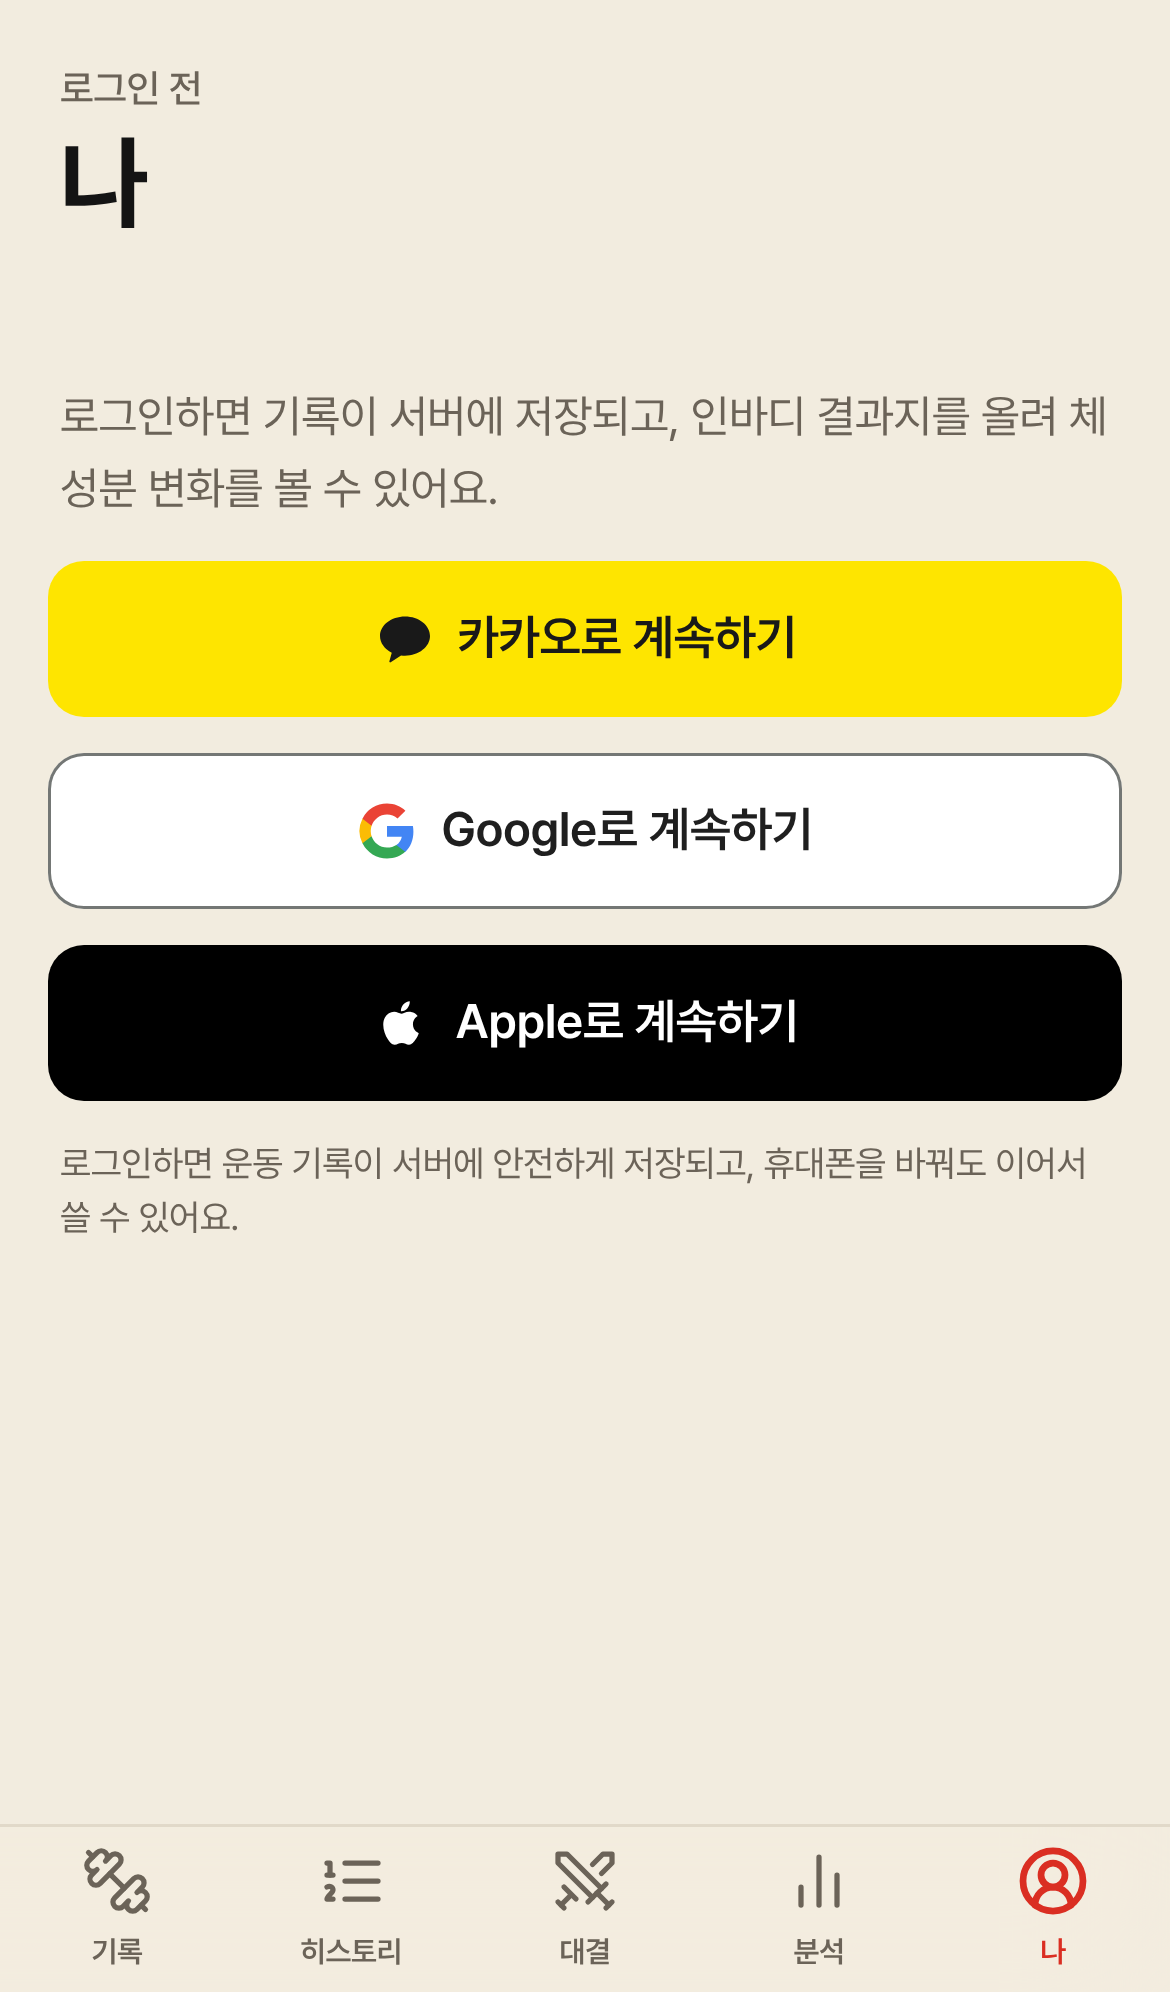
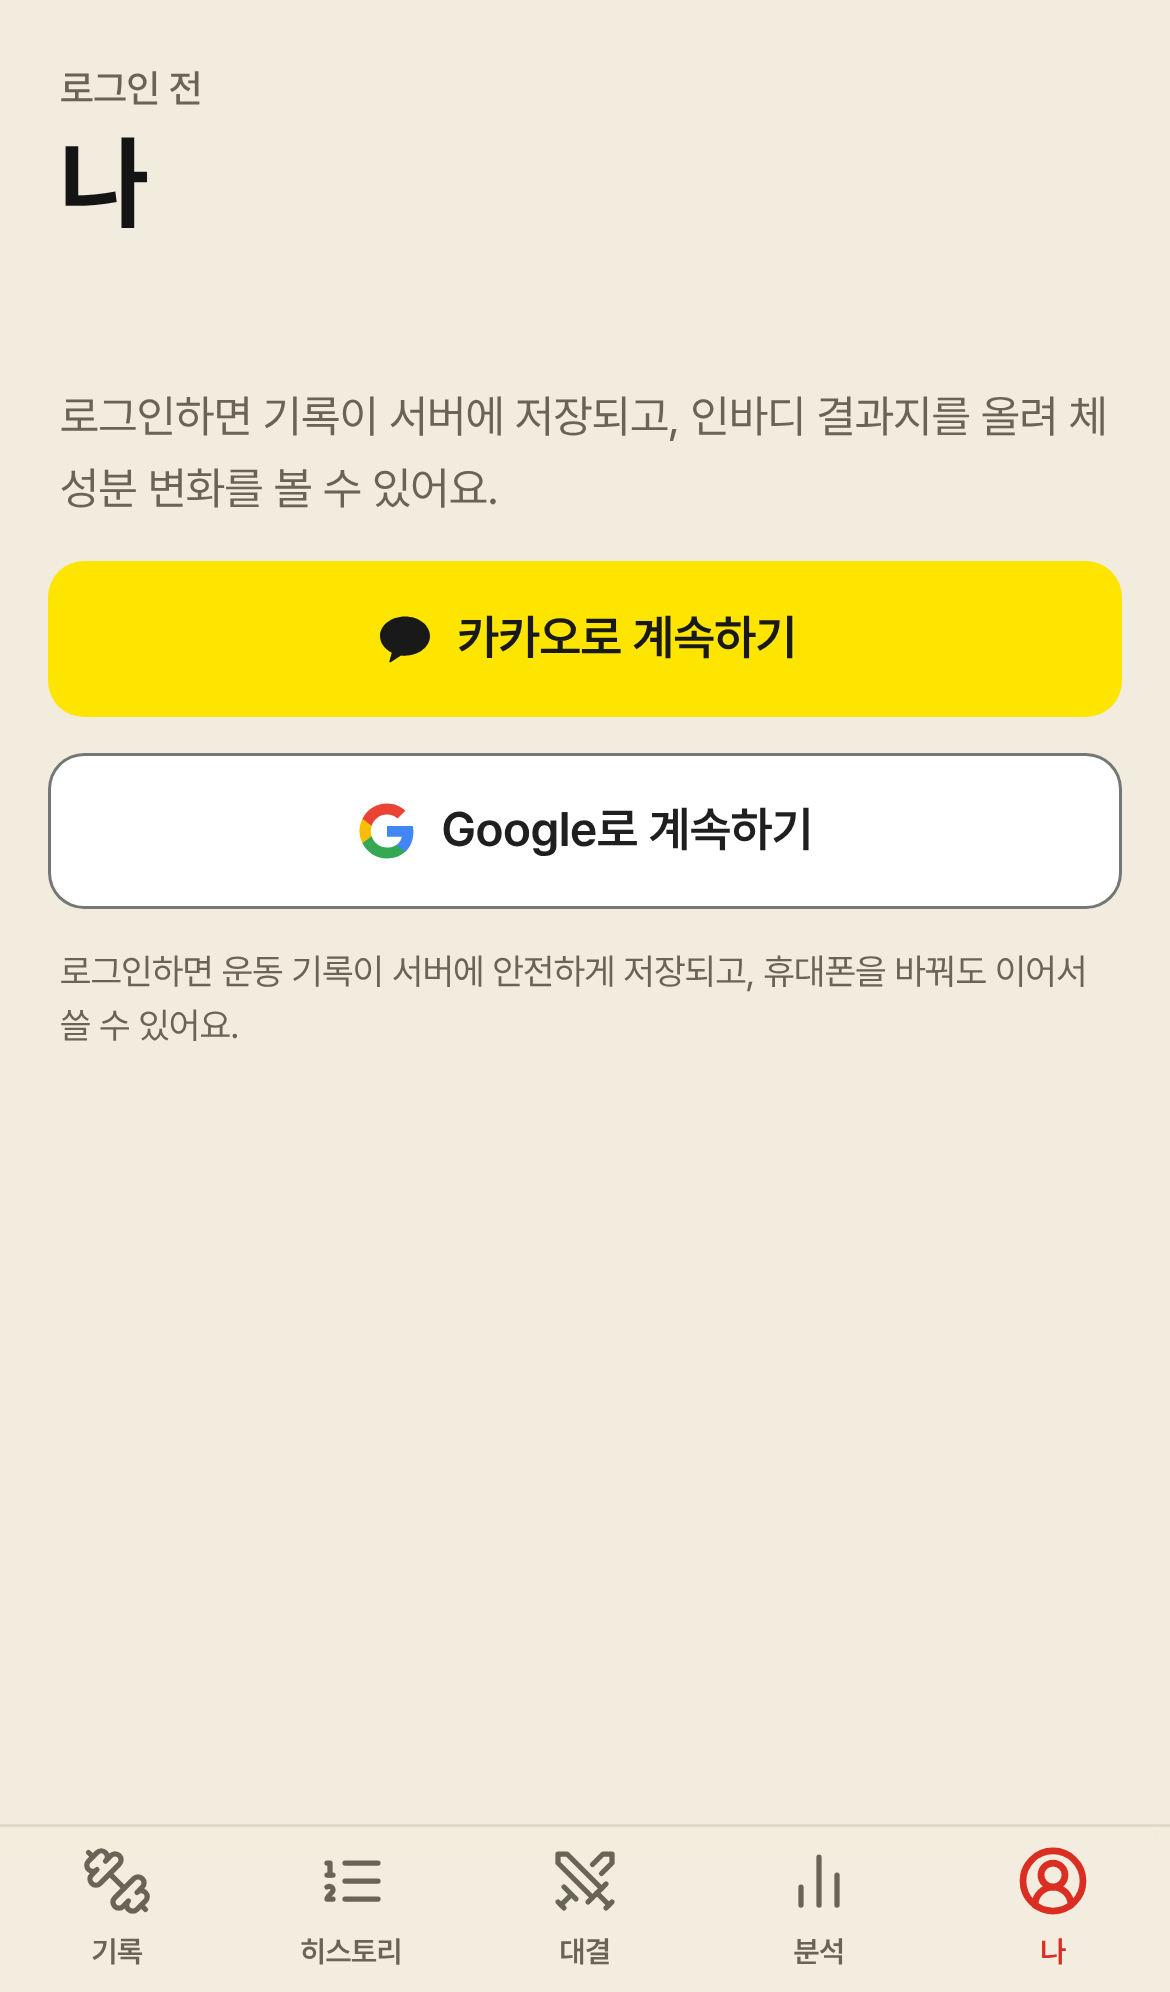
로그인을 카카오·구글로 한정 (애플 제외)
Claude-Session: https://claude.ai/code/session_01Qo6dAT2y3vhN6wj4omQPxB

Changed region(s): [[0.0308, 0.4669, 0.9846, 0.6225]]

diff --git a/src/components/LoginPanel.tsx b/src/components/LoginPanel.tsx
@@ -2,7 +2,7 @@ import { useState } from 'react';
 import { useAuth, type Provider } from '../lib/auth';
 import { errText } from '../lib/supabase';
 
-/** 각 회사 로고 가이드에 맞춘 버튼 색 (카카오 노랑, 애플 검정, 구글 흰색) */
+/** 각 회사 로고 가이드에 맞춘 버튼 색 (카카오 노랑, 구글 흰색) */
 const BUTTONS: { id: Provider; label: string; cls: string; logo: JSX.Element }[] = [
   {
     id: 'kakao',
@@ -23,14 +23,6 @@ const BUTTONS: { id: Provider; label: string; cls: string; logo: JSX.Element }[]
         <path fill="#FBBC05" d="M5.84 14.1a6.6 6.6 0 0 1 0-4.2V7.06H2.18a11 11 0 0 0 0 9.88l3.66-2.84z" />
         <path fill="#EA4335" d="M12 5.38c1.62 0 3.06.56 4.21 1.64l3.15-3.15C17.45 2.09 14.97 1 12 1A11 11 0 0 0 2.18 7.06l3.66 2.84C6.71 7.31 9.14 5.38 12 5.38z" />
       </svg>
-    ),
-  },
-  {
-    id: 'apple',
-    label: 'Apple로 계속하기',
-    cls: 'bg-black text-white dark:bg-white dark:text-black',
-    logo: (
-      <svg aria-hidden viewBox="0 0 24 24" className="w-5 h-5"><path fill="currentColor" d="M16.37 12.53c-.02-2.2 1.8-3.26 1.88-3.31-1.03-1.5-2.62-1.7-3.19-1.73-1.36-.14-2.65.8-3.34.8-.69 0-1.75-.78-2.88-.76-1.48.02-2.85.86-3.61 2.19-1.54 2.67-.39 6.62 1.11 8.79.73 1.06 1.6 2.25 2.75 2.2 1.1-.04 1.52-.71 2.85-.71 1.33 0 1.71.71 2.88.69 1.19-.02 1.94-1.08 2.67-2.15.84-1.23 1.19-2.42 1.21-2.48-.03-.01-2.32-.89-2.33-3.53zM14.18 6.06c.61-.74 1.02-1.76.91-2.78-.88.04-1.94.59-2.57 1.32-.56.65-1.06 1.69-.93 2.69.98.08 1.98-.5 2.59-1.23z" /></svg>
     ),
   },
 ];

diff --git a/src/components/MeTab.tsx b/src/components/MeTab.tsx
@@ -26,7 +26,7 @@ export default function MeTab({ toast, cloud, onImported }: { toast: (m: string)
         <div className="row justify-between py-3">
           <div className="min-w-0">
             <div className="text-[22px] font-bold truncate">{handle}</div>
-            <div className="text-[13px] text-sub">{{ kakao: '카카오', google: 'Google', apple: 'Apple' }[provider ?? ''] ?? ''} 계정으로 로그인됨</div>
+            <div className="text-[13px] text-sub">{{ kakao: '카카오', google: 'Google' }[provider ?? ''] ?? ''} 계정으로 로그인됨</div>
           </div>
           <button onClick={() => shareHandle(handle, toast)} aria-label="아이디 공유" className="tap w-11 h-11 -mr-2 grid place-items-center text-accent">
             <Share aria-hidden className="w-5 h-5" strokeWidth={1.75} />

diff --git a/src/lib/auth.tsx b/src/lib/auth.tsx
@@ -2,7 +2,7 @@ import { createContext, useCallback, useContext, useEffect, useState, type React
 import type { Session } from '@supabase/supabase-js';
 import { supabase } from './supabase';
 
-export type Provider = 'kakao' | 'google' | 'apple';
+export type Provider = 'kakao' | 'google';
 
 interface AuthState {
   enabled: boolean;          // Supabase 설정 여부

diff --git a/SETUP.md b/SETUP.md
@@ -1,7 +1,7 @@
 # 서버 연결 가이드 (로그인 · 대결 · 인바디)
 
 이 설정을 하기 전에도 앱은 동작합니다(기록이 휴대폰 안에만 저장됨).
-아래 순서대로 하면 로그인·친구 대결·인바디 판독이 켜집니다. 처음이면 1~2시간 정도 걸려요.
+아래 순서대로 하면 로그인·친구 대결·인바디 판독이 켜집니다. 처음이면 1시간 정도 걸려요. 로그인은 카카오·구글 두 가지만 지원해요.
 
 ---
 
@@ -48,21 +48,9 @@
 4. 클라이언트 ID / 보안 비밀을 Supabase → Providers → **Google**에 붙여넣고 켜기
 5. 동의 화면이 "테스트" 상태면 등록한 테스트 사용자만 로그인돼요. 공개하려면 **앱 게시**를 누르세요.
 
-## 4. 애플 로그인 (약 30분, Apple Developer Program 가입 필요 · 연 129,000원)
-
-1. https://developer.apple.com/account → Certificates, IDs & Profiles
-2. **Identifiers → App IDs** 하나 만들고 *Sign in with Apple* 체크
-3. **Identifiers → Services IDs** 만들기 (예: `app.fitter.web`)
-   - Sign in with Apple 설정에서 Domains에 `<프로젝트ID>.supabase.co`
-   - Return URLs에 위 콜백 주소
-4. **Keys** → 새 키 만들고 Sign in with Apple 체크 → `.p8` 파일 다운로드 (한 번만 받을 수 있어요)
-5. Supabase → Providers → **Apple**에 Services ID(Client ID), Team ID, Key ID, `.p8` 내용 입력
-   - Supabase 화면 안내에 따라 시크릿을 생성하세요.
-   - 이 시크릿은 **6개월마다 다시 만들어야** 해요. 달력에 적어 두세요.
-
 ---
 
-## 5. Claude API 키 (인바디 판독용)
+## 4. Claude API 키 (인바디 판독용)
 
 1. https://console.anthropic.com → API Keys → **Create Key**
 2. Billing에서 결제 수단 등록 (선불 크레딧 충전 방식)
@@ -71,7 +59,7 @@
 
 ---
 
-## 6. Vercel 환경 변수 넣고 다시 배포
+## 5. Vercel 환경 변수 넣고 다시 배포
 
 Vercel → 프로젝트 → **Settings → Environment Variables** 에 추가:
 
@@ -79,7 +67,7 @@ Vercel → 프로젝트 → **Settings → Environment Variables** 에 추가:
 |---|---|---|
 | `VITE_SUPABASE_URL` | 1-3의 Project URL | 앱·서버 공용 |
 | `VITE_SUPABASE_ANON_KEY` | 1-3의 anon 키 | 공개돼도 되는 키 (권한은 DB 규칙이 막음) |
-| `ANTHROPIC_API_KEY` | 5의 키 | **서버 전용. 절대 `VITE_`를 붙이지 마세요** (앱에 노출됨) |
+| `ANTHROPIC_API_KEY` | 4의 키 | **서버 전용. 절대 `VITE_`를 붙이지 마세요** (앱에 노출됨) |
 
 저장 후 **Deployments → 최신 배포 → Redeploy** 하면 적용됩니다.
 

diff --git a/README.md b/README.md
@@ -13,7 +13,7 @@ npm run build      # dist/ 에 배포용 결과물 생성
 
 ## 기능
 - 운동 기록(세트·드롭세트), 휴식 타이머, 점진적 과부하 코칭, 성장 분석
-- **로그인**: 카카오·구글·애플 → `닉네임-0000` 아이디 발급
+- **로그인**: 카카오·구글 → `닉네임-0000` 아이디 발급
 - **대결**: 친구 추가, 연속 운동 순위, 1:1 볼륨 챌린지(3/7/14일)
 - **인바디**: 결과지 사진·PDF를 올리면 Claude가 수치를 읽어 기록, 이전 측정과 비교
 
@@ -57,5 +57,4 @@ apps-script/Code.gs       구글 시트 JSON API
 ```
 
 ## 다음 단계 로드맵
-- **네이버 로그인**: Supabase 기본 미지원 → 서버 함수로 OAuth 연동 필요
 - **스토어 앱**: Capacitor로 감싸면 같은 코드로 iOS/Android 앱 빌드 가능
